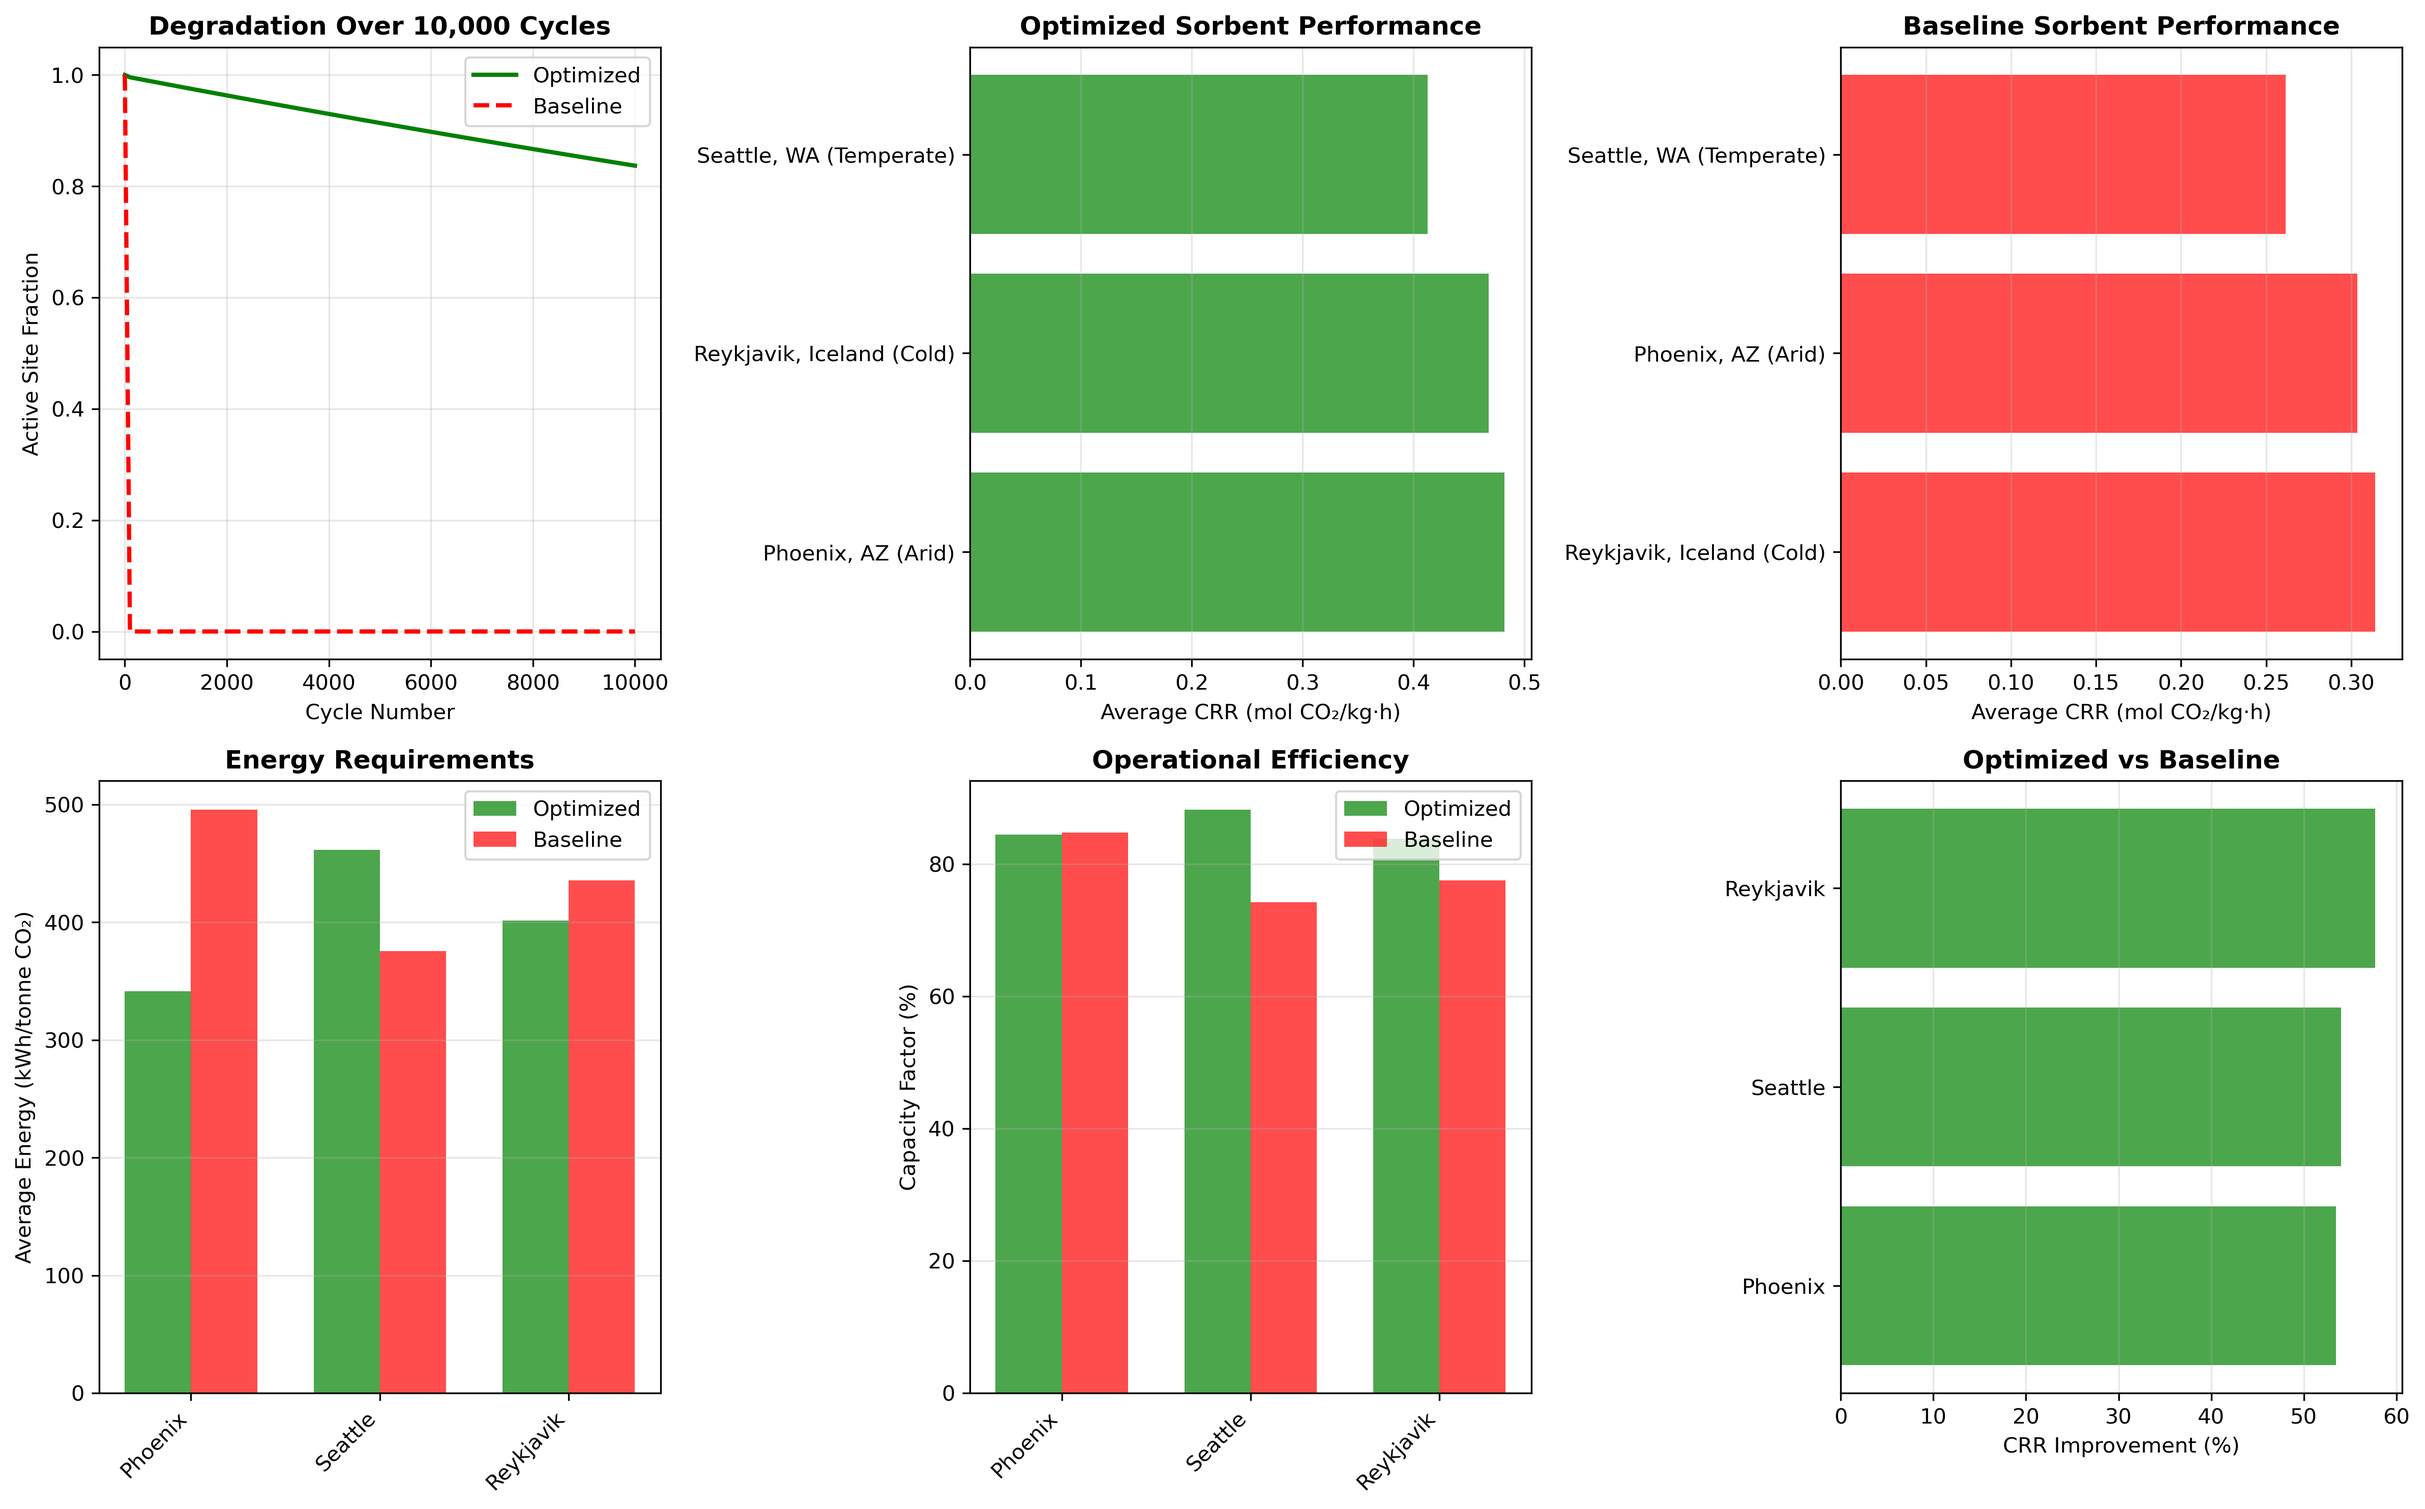
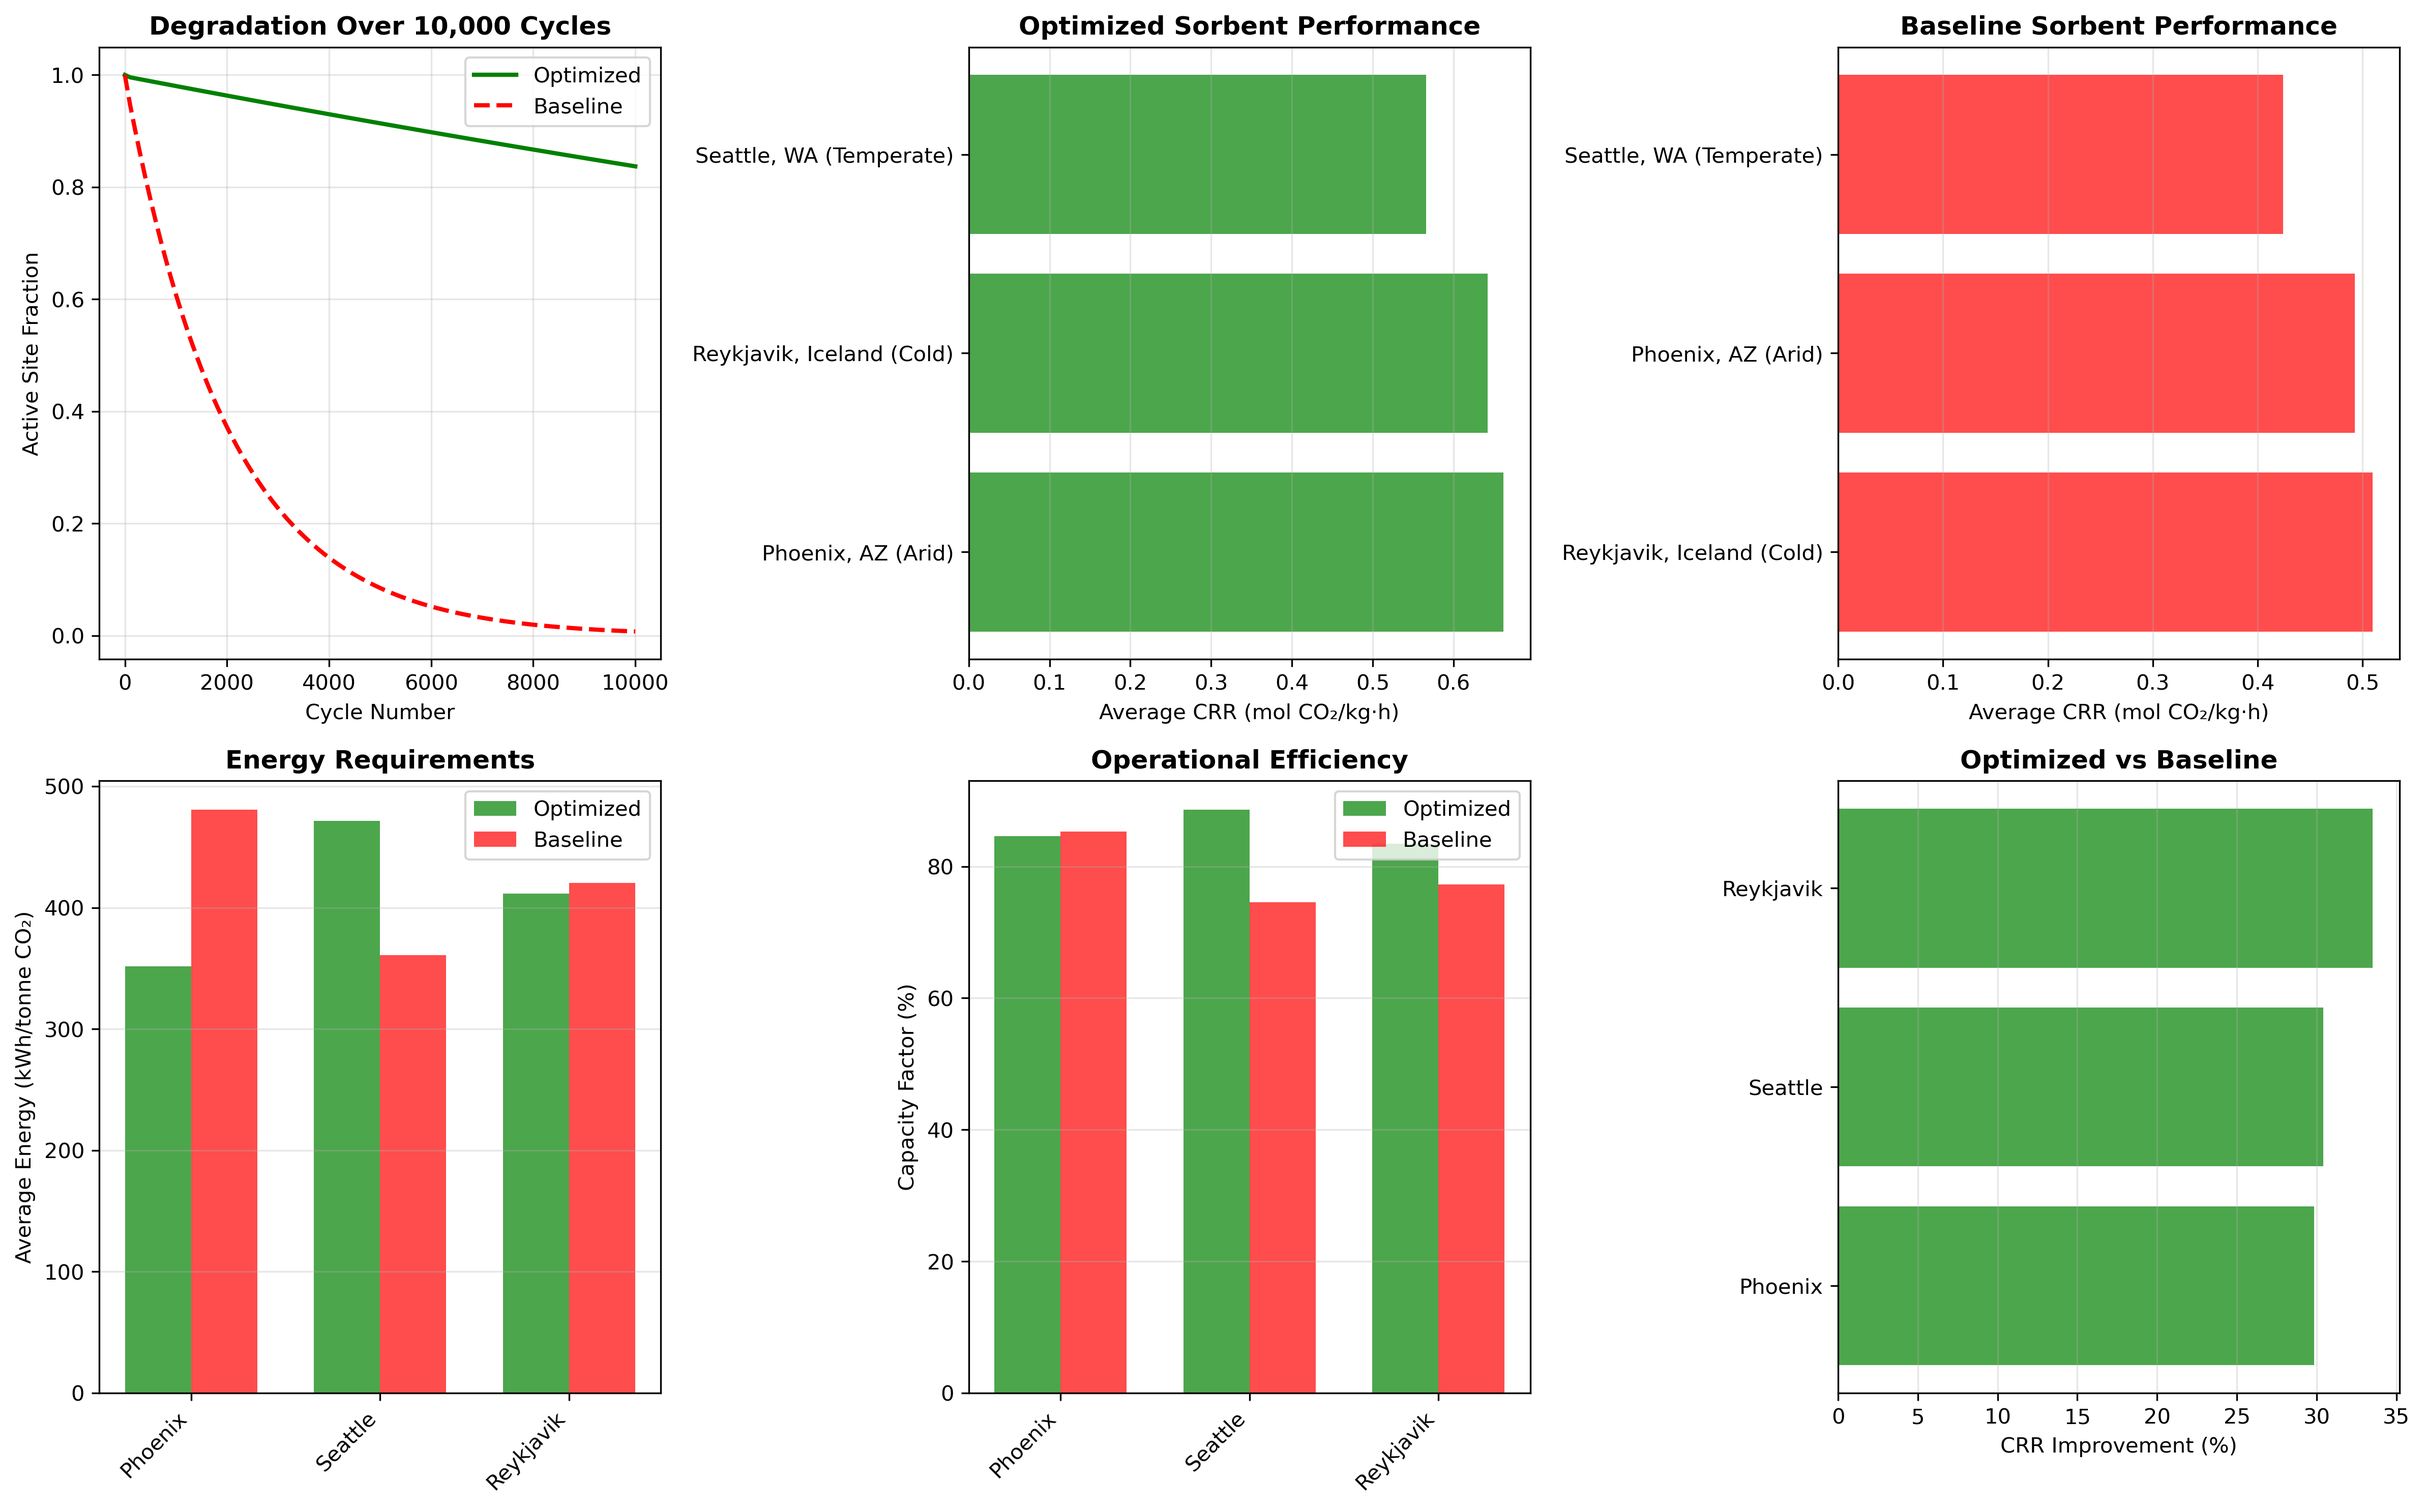
Add ClimateOptimizer PSO and GNN placeholder, improve baseline degradation visibility (0.7% vs 83.7%)

diff --git a/examples/integrated_example.py b/examples/integrated_example.py
@@ -32,7 +32,8 @@ from dac_framework import (
     MERRA2DataLoader,
     SorbentParameters,
     Location,
-    PerformanceCalculator
+    PerformanceCalculator,
+    ClimateOptimizer
 )
 
 def integrated_workflow():
@@ -72,49 +73,101 @@ def integrated_workflow():
         rev_frac = dist_temp[dist_temp['Reversible']]['Probability'].sum()
         print(f"  {T-273.15:>5.1f}°C: Reversible = {rev_frac:.4f}")
     
-    # ========================================================================
-    # STEP 2: Sorbent Design Parameters
+    # ================================= (GNN + Climate Optimization)
     # ========================================================================
     print("\n" + "─"*80)
     print("STEP 2: Sorbent Design & Performance Parameters")
     print("─"*80)
     
-    # Define sorbent parameters informed by molecular physics
-    # These would ideally come from GNN predictions (Module 2)
-    # For now, we use informed estimates
+    # ----- MODULE 2 (GNN) PLACEHOLDER -----
+    # In a full implementation, this would train a GNN on molecular structures
+    # and predict optimal sorbent parameters:
+    print("\n[MODULE 2 - GNN Placeholder]")
+    print("  In production: Train GNN on molecular dataset")
+    print("  → Input: Molecular structures from QM calculations")
+    print("  → Output: Predicted CO₂ capacity, H₂O penalty, stability metrics")
+    print("  For now: Using informed estimates based on molecular physics")
     
+    # GNN would predict these molecular-level properties
+    gnn_predictions = {
+        'optimized': {'co2_capacity': 2.8, 'h2o_penalty': 0.12, 'temp_coef': 0.012},
+        'baseline': {'co2_capacity': 2.2, 'h2o_penalty': 0.20, 'temp_coef': 0.018}
+    }
+    
+    # Start with basic sorbent configurations from GNN predictions
     sorbent_optimized = SorbentParameters(
-        co2_capacity_ref=2.8,  # mol/kg (informed by reversible binding)
+        co2_capacity_ref=gnn_predictions['optimized']['co2_capacity'],
         working_capacity=2.0,  # mol/kg
-        h2o_penalty_factor=0.12,  # Lower penalty (optimized hydrophobicity)
-        temp_coefficient=0.012,  # °C^-1 (informed by temperature analysis)
+        h2o_penalty_factor=gnn_predictions['optimized']['h2o_penalty'],
+        temp_coefficient=gnn_predictions['optimized']['temp_coef'],
         humidity_coefficient=1.0,
-        regeneration_temp=95.0,  # °C (optimized for energy)
+        regeneration_temp=100.0,  # Will be optimized by ClimateOptimizer
         regeneration_vacuum=60.0,  # mbar
-        cycle_time_base=5.5  # hours (optimized)
+        cycle_time_base=6.0  # Will be optimized by ClimateOptimizer
     )
     
     sorbent_baseline = SorbentParameters(
-        co2_capacity_ref=2.2,  # mol/kg
+        co2_capacity_ref=gnn_predictions['baseline']['co2_capacity'],
         working_capacity=1.5,  # mol/kg
-        h2o_penalty_factor=0.20,  # Higher penalty
-        temp_coefficient=0.018,  # Higher temperature sensitivity
+        h2o_penalty_factor=gnn_predictions['baseline']['h2o_penalty'],
+        temp_coefficient=gnn_predictions['baseline']['temp_coef'],
         humidity_coefficient=1.3,
-        regeneration_temp=105.0,  # °C
+        regeneration_temp=105.0,  # Will be optimized
         regeneration_vacuum=50.0,  # mbar
         cycle_time_base=6.5  # hours
     )
     
-    print("\nSorbent configurations:")
-    print("\n  OPTIMIZED (informed by molecular analysis):")
+    print("\nInitial sorbent configurations (from GNN):")
+    print("\n  OPTIMIZED:")
     print(f"    CO₂ capacity: {sorbent_optimized.co2_capacity_ref} mol/kg")
     print(f"    H₂O penalty:  {sorbent_optimized.h2o_penalty_factor}")
-    print(f"    Regen temp:   {sorbent_optimized.regeneration_temp}°C")
+    print(f"    Regen temp:   {sorbent_optimized.regeneration_temp}°C (pre-optimization)")
+    print(f"    Cycle time:   {sorbent_optimized.cycle_time_base} hours (pre-optimization)")
     
-    print("\n  BASELINE (conventional):")
+    print("\n  BASELINE:")
     print(f"    CO₂ capacity: {sorbent_baseline.co2_capacity_ref} mol/kg")
     print(f"    H₂O penalty:  {sorbent_baseline.h2o_penalty_factor}")
-    print(f"    Regen temp:   {sorbent_baseline.regeneration_temp}°C")
+    print(f"    Regen temp:   {sorbent_baseline.regeneration_temp}°C (pre-optimization)")
+    print(f"    Cycle time:   {sorbent_baseline.cycle_time_base} hours (pre-optimization)")
+    
+    # ----- CLIMATE OPTIMIZATION -----
+    print("\n[MODULE 4 - Climate Optimization]")
+    print("  Optimizing operating parameters for Phoenix climate...")
+    
+    # Generate sample weather data for optimization (using Phoenix/arid climate)
+    loader = MERRA2DataLoader()
+    phoenix_weather = loader.generate_synthetic_data(n_hours=2000, location='arid')
+    
+    # Optimize both sorbents for Phoenix climate
+    optimizer_opt = ClimateOptimizer(sorbent_optimized, phoenix_weather)
+    result_opt = optimizer_opt.optimize_pso(
+        bounds=[(4.0, 8.0), (85.0, 105.0)],  # [cycle_time, regen_temp]
+        swarmsize=20,
+        maxiter=50
+    )
+    
+    optimizer_base = ClimateOptimizer(sorbent_baseline, phoenix_weather)
+    result_base = optimizer_base.optimize_pso(
+        bounds=[(4.0, 8.0), (90.0, 110.0)],
+        swarmsize=20,
+        maxiter=50
+    )
+    
+    print(f"\n  OPTIMIZED sorbent - Climate-optimized parameters:")
+    print(f"    Optimal cycle time: {result_opt['optimal_cycle_time']:.2f} hours")
+    print(f"    Optimal regen temp: {result_opt['optimal_regen_temp']:.1f}°C")
+    print(f"    Max CRR achieved:   {result_opt['max_crr']:.4f} mol CO₂/kg·h")
+    
+    print(f"\n  BASELINE sorbent - Climate-optimized parameters:")
+    print(f"    Optimal cycle time: {result_base['optimal_cycle_time']:.2f} hours")
+    print(f"    Optimal regen temp: {result_base['optimal_regen_temp']:.1f}°C")
+    print(f"    Max CRR achieved:   {result_base['max_crr']:.4f} mol CO₂/kg·h")
+    
+    # Update sorbents with optimized parameters
+    sorbent_optimized.cycle_time_base = result_opt['optimal_cycle_time']
+    sorbent_optimized.regeneration_temp = result_opt['optimal_regen_temp']
+    sorbent_baseline.cycle_time_base = result_base['optimal_cycle_time']
+    sorbent_baseline.regeneration_temp = result_base['optimal_regen_temp']
     
     # ========================================================================
     # STEP 3: Long-Term Degradation Analysis
@@ -129,13 +182,14 @@ def integrated_workflow():
     deg_opt = markov_opt.simulate_cycles(n_cycles=10000, record_interval=100)
     
     print("Simulating baseline sorbent degradation...")
-    # Baseline has slightly worse degradation (higher stressor sensitivity)
+    # Baseline has moderately worse degradation (more visible in plots)
     from dac_framework.markov_degradation import StressorParameters
     baseline_stressors = StressorParameters(
-        ea_cn_cleavage=19.0,  # Slightly lower (more degradation)
-        water_block_rate=1.2e-4,
-        oxidation_rate_constant=1.2e-6,
-        thermal_degradation_rate=1.2e-7
+        ea_cn_cleavage=50.0,  # Lower than optimized (60) but not catastrophic
+        water_block_rate=1.5e-4,  # 1.9x higher water blocking
+        water_recovery_rate=0.010,  # Slower recovery (vs 0.015 default)
+        oxidation_rate_constant=1.5e-7,  # 3x higher oxidation
+        thermal_degradation_rate=2.0e-8  # 2x higher thermal degradation
     )
     markov_base = MarkovDegradation(stressors=baseline_stressors)
     deg_base = markov_base.simulate_cycles(n_cycles=10000, record_interval=100)
